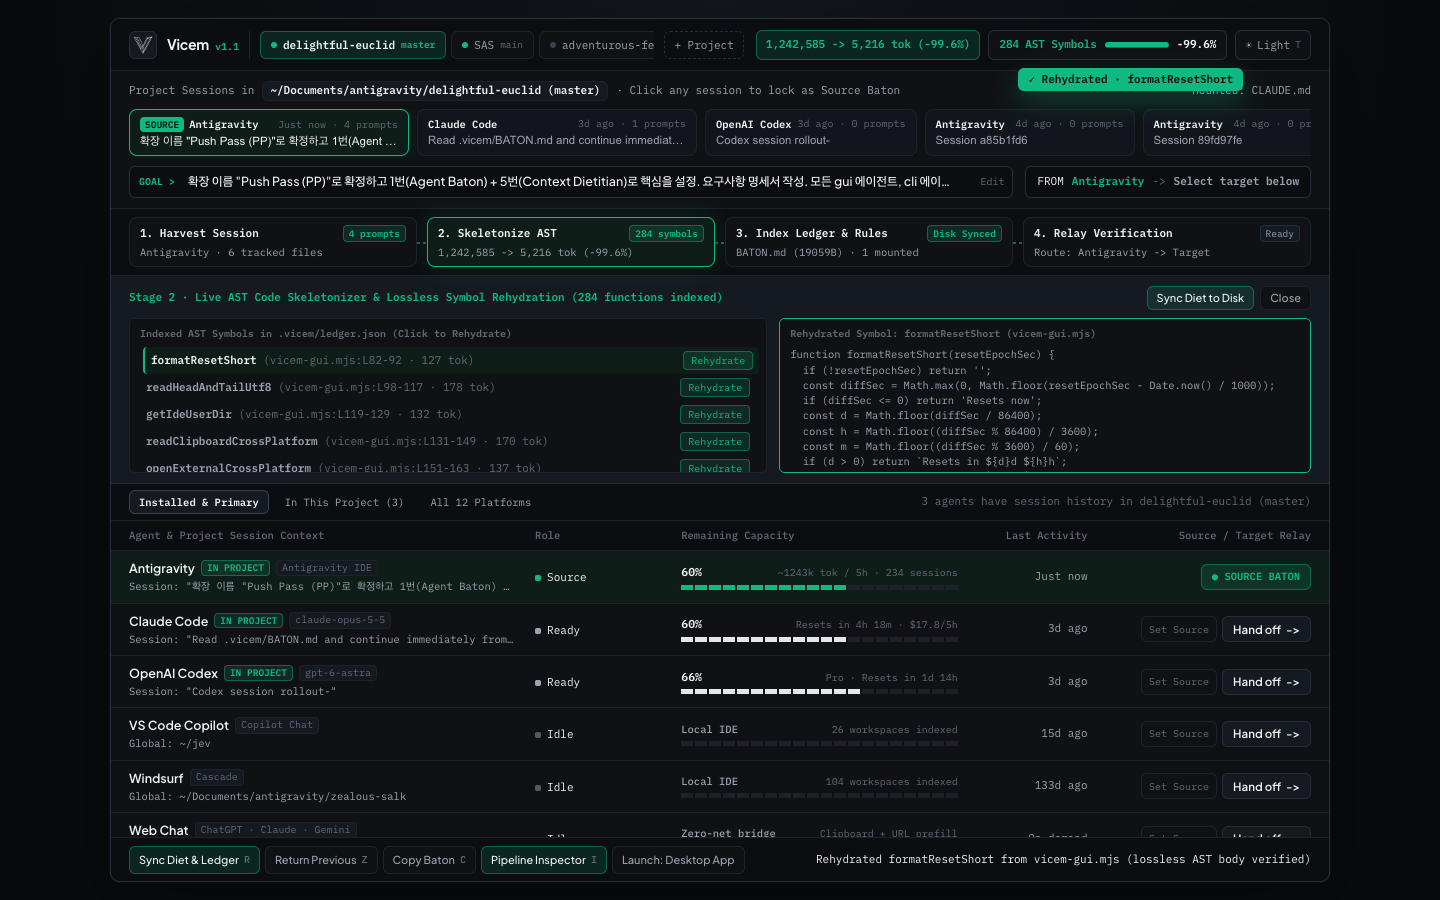
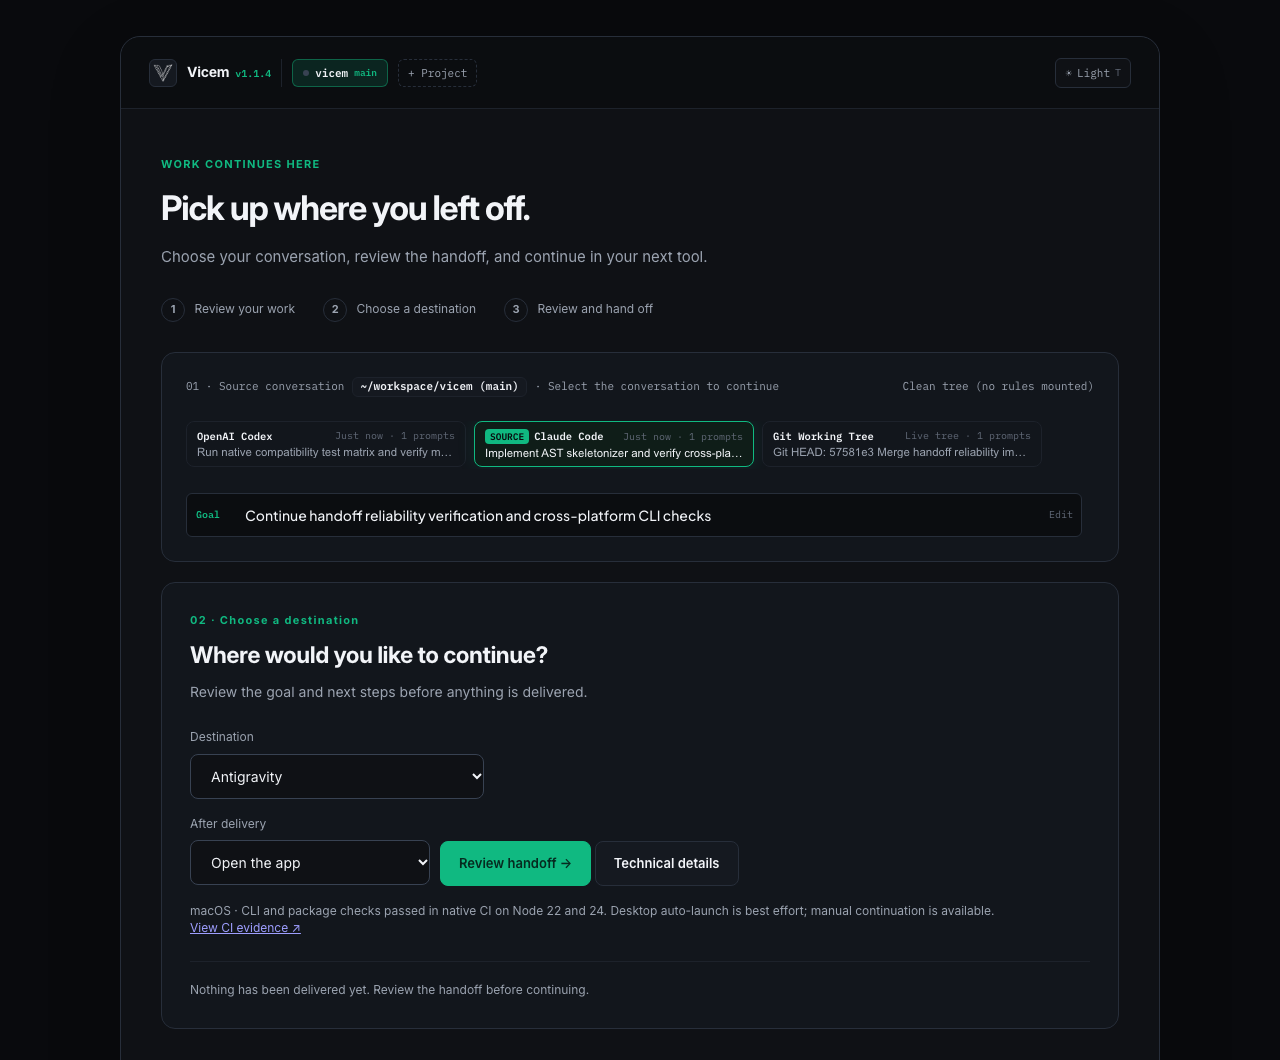
Release v1.1.5: Update README and screenshots for new simple handoff frontend

diff --git a/README.md b/README.md
@@ -12,7 +12,7 @@
   <a href="https://glama.ai/mcp/servers/RAKKUNN/vicem"><img src="https://glama.ai/mcp/servers/RAKKUNN/vicem/badges/score.svg" alt="Vicem MCP server rated A on Glama" /></a>
   <a href="https://mcpservers.org/servers/rakkunn/vicem"><img src="https://mcpservers.org/badge.svg" alt="Listed on mcpservers.org" /></a>
   <a href="https://www.npmjs.com/package/vicem-cli"><img src="https://img.shields.io/npm/v/vicem-cli?color=CB3837&label=npm%20(vicem-cli)" alt="npm vicem-cli" /></a>
-  <a href="https://github.com/RAKKUNN/vicem/releases/tag/v1.1.4"><img src="https://img.shields.io/badge/release-v1.1.4%20(Kinetic%20GUI)-10B981" alt="Release v1.1.4" /></a>
+  <a href="https://github.com/RAKKUNN/vicem/releases/tag/v1.1.5"><img src="https://img.shields.io/badge/release-v1.1.5-10B981" alt="Release v1.1.5" /></a>
   <img src="https://img.shields.io/badge/dependencies-0-3B82F6" alt="Zero Dependencies" />
   <a href="./LICENSE"><img src="https://img.shields.io/badge/license-MIT-F59E0B" alt="MIT License" /></a>
 </p>
@@ -27,9 +27,9 @@
 
 ## ⚡ 10-Second Quick Start (`npx` — Zero Install)
 
-### 1. Run the Local Desktop Utility GUI or Pass a Baton Immediately
+### 1. Run the Local Handoff GUI or Pass a Baton Immediately
 ```bash
-# Launch the local Desktop Utility GUI (12 agents, 4-stage pipeline inspector, live token/quota HUD)
+# Launch the local Handoff GUI (3-step guided handoff, preview confirmation & manual recovery)
 npx -y vicem-cli gui
 
 # Or pack a compressed baton from your current repo & hand off in 1 command
@@ -81,11 +81,13 @@ Add to `~/.cursor/mcp.json`, `~/.codeium/windsurf/mcp_config.json`, or `claude_d
   <picture>
     <source media="(prefers-color-scheme: dark)" srcset="./gui-dark.png" />
     <source media="(prefers-color-scheme: light)" srcset="./gui-light.png" />
-    <img src="./gui-dark.png" width="100%" alt="Vicem Unified Desktop Utility GUI (Dark & Light Mode)" />
+    <img src="./gui-dark.png" width="100%" alt="Vicem Guided Handoff GUI (Dark & Light Mode)" />
   </picture>
 </p>
 
-![Vicem 3-Second Context Baton & Diet Demo](./demo.gif)
+1. **Review your work (`01 · Source conversation`)**: Select the active project and source conversation, and inspect or edit the extracted handoff goal.
+2. **Choose a destination (`02 · Choose a destination`)**: Pick the target agent (`Claude Code`, `OpenAI Codex`, `Cursor`, `Antigravity`, `Gemini CLI`, `Windsurf`, `VS Code`, `Web Chat`) and delivery action (`Open the app`, `Open in terminal`, or `Prepare handoff only`).
+3. **Review and hand off (`03 · Review handoff`)**: Inspect the exact `.vicem/BATON.md` summary before anything is written or launched. If automatic launch is unavailable, copy the saved `BATON.md` path, shell continuation command, and start prompt directly from the recovery panel.
 
 ```text
 $ npx -y vicem-cli codex
@@ -169,7 +171,7 @@ node -e "console.log(JSON.parse(fs.readFileSync('package.json')).dependencies ??
 # 2. Verify SHA-256 checksums of all core artifacts
 shasum -a 256 -c SHA256SUMS
 
-# 3. Run the 52-test automated suite
+# 3. Run the 769-test automated suite
 node --test test/*.test.mjs
 ```
 
